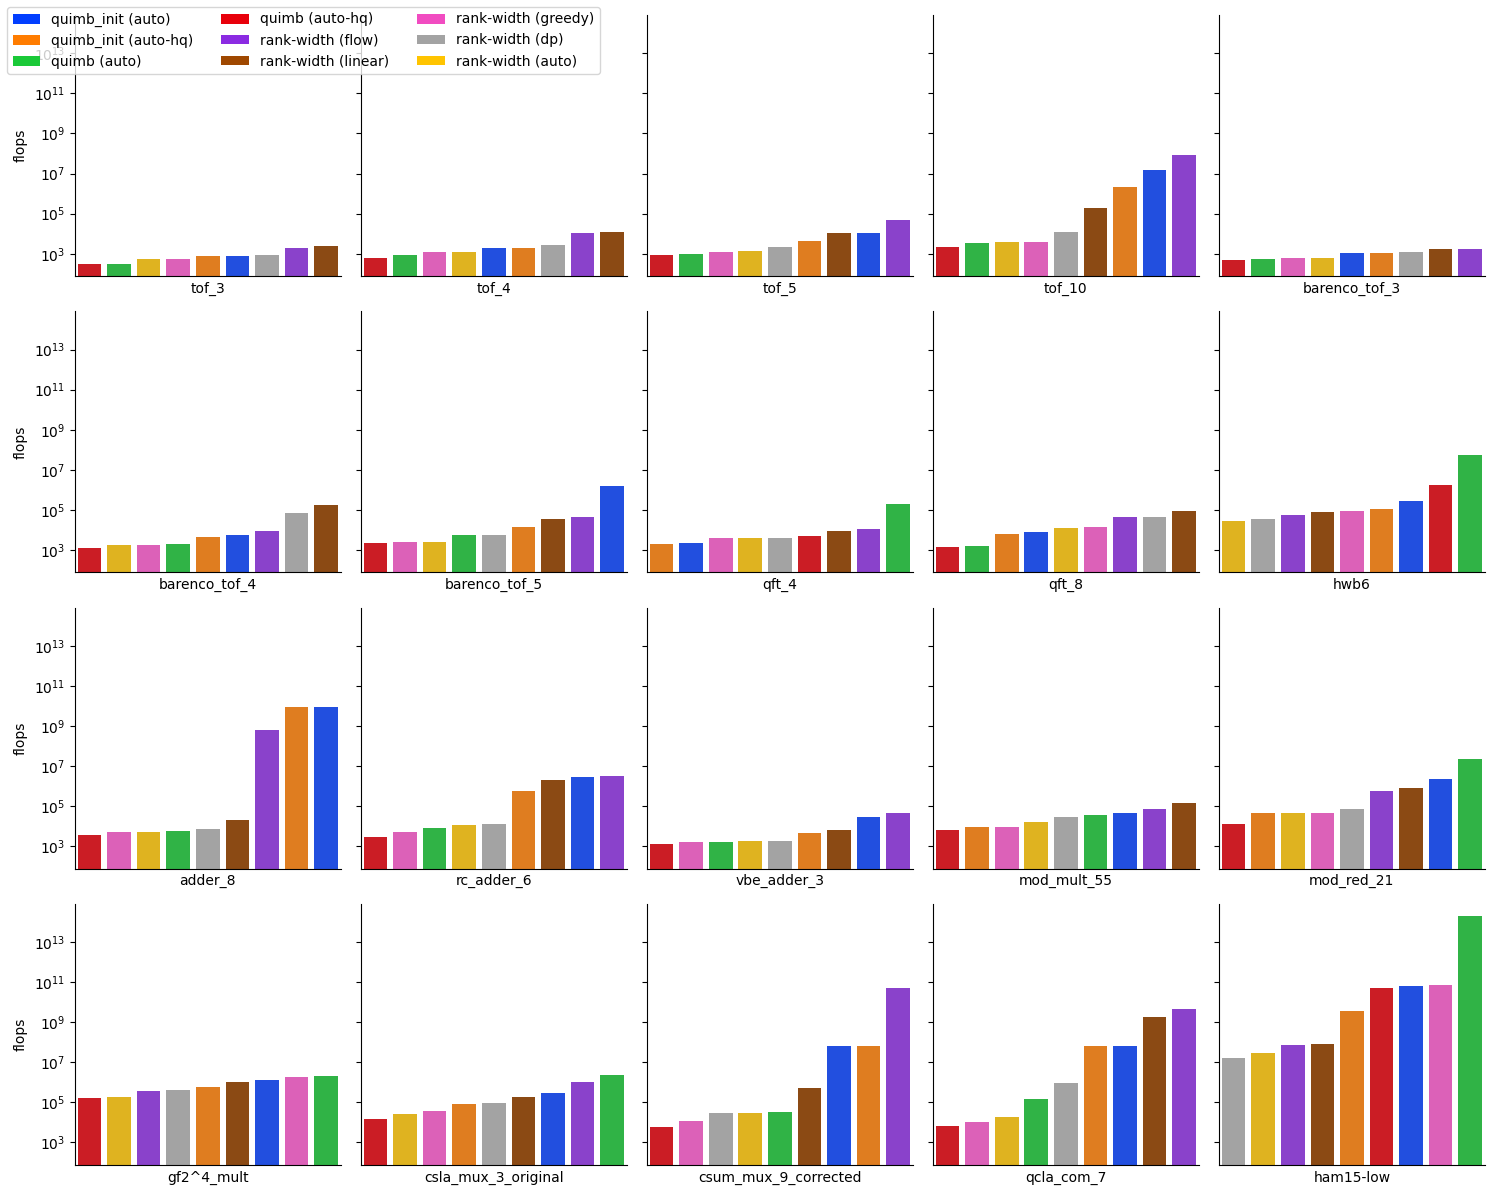
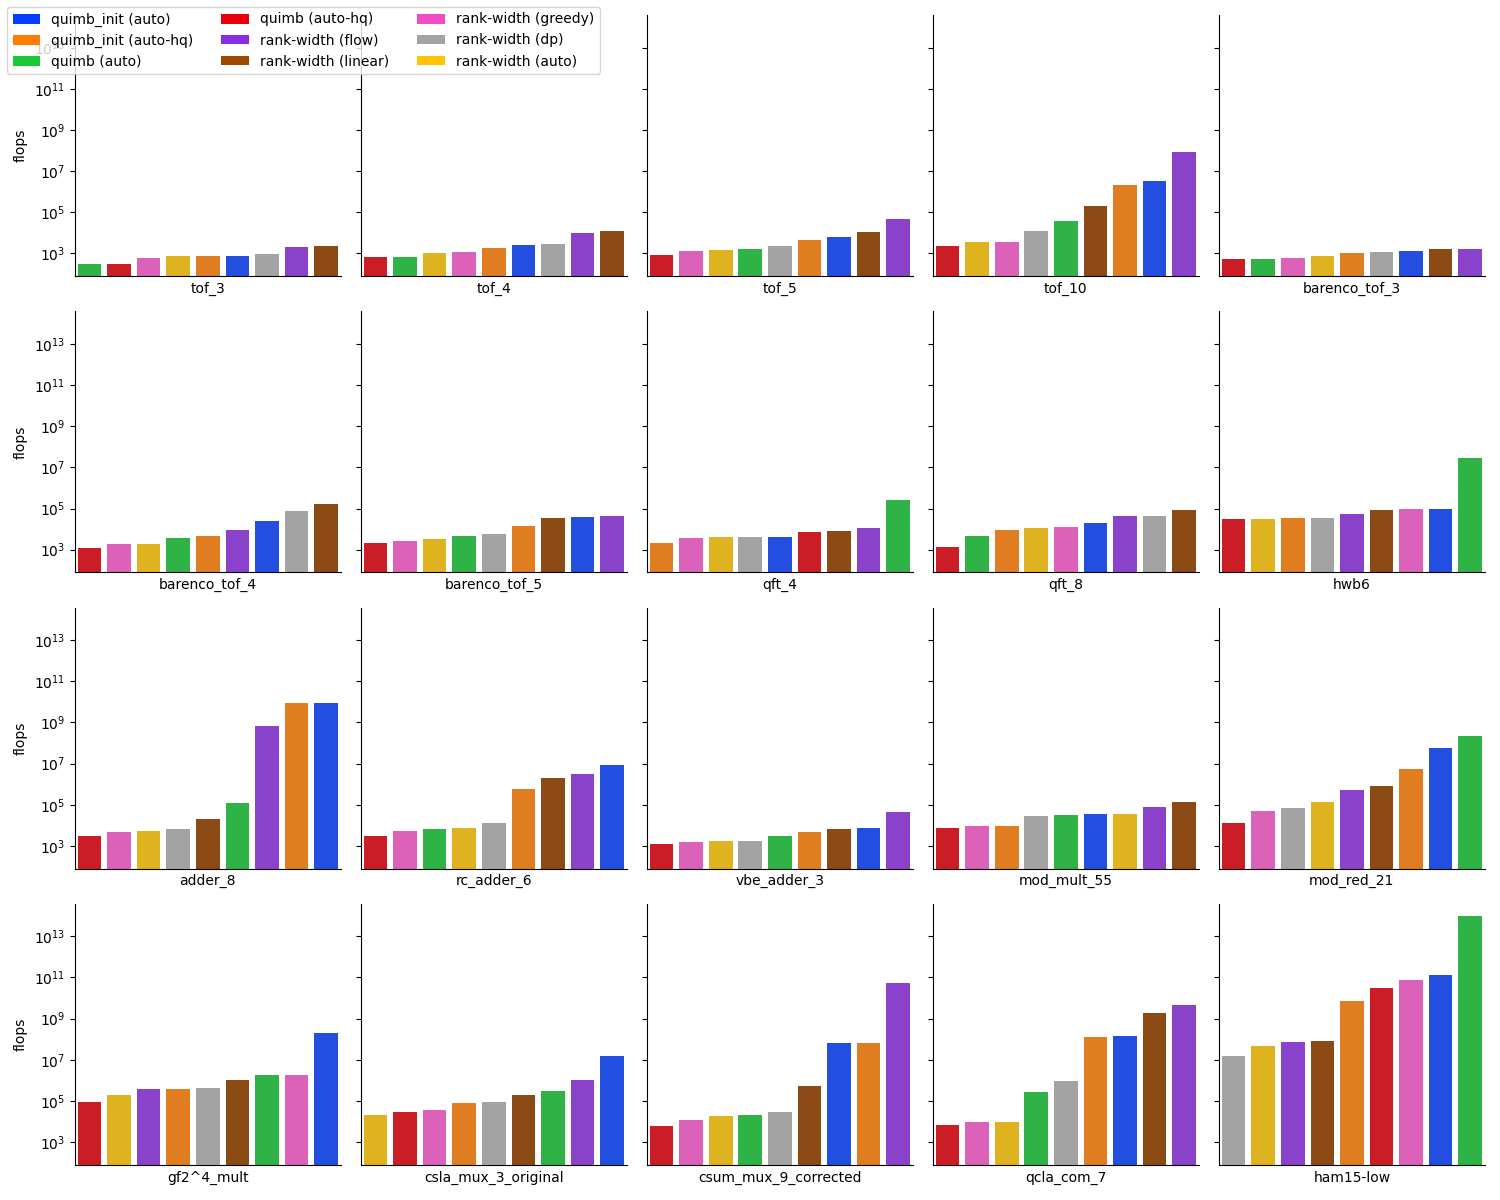
Reduced running time of auto

diff --git a/decomp_heuristics.py b/decomp_heuristics.py
@@ -231,12 +231,14 @@ def auto_decomposition(g: zx.graph.base.BaseGraph, verbose=False):
     refs = []
     decomps = []
     leaves = []
-    for i in order:
+    loc = []
+    for i in range(n):
         ref = REF(mat)
-        ref.take(i)
+        ref.take(order[i])
         refs.append(ref)
-        decomps.append(vert[i])
-        leaves.append({i})
+        decomps.append(vert[order[i]])
+        leaves.append({order[i]})
+        loc.append(i)
     refs_next = dict()
     edges = [set() for _ in range(n)]
     for i in range(n):
@@ -250,10 +252,11 @@ def auto_decomposition(g: zx.graph.base.BaseGraph, verbose=False):
             edges[j].add(i)
 
     while refs_next:
-        min_rank, i, j = min((ref.rank(), i, j) for (i, j), ref in refs_next.items())
+        min_rank, _, i, j = min((ref.rank(), abs(loc[j] - loc[i]), i, j)
+                                for (i, j), ref in refs_next.items())
         if i > j:
             i, j = j, i
-        r1, r2, r3 = refs[i].rank(), refs[j].rank(), min_rank
+        r1, r2, r3 = refs[loc[i]].rank(), refs[loc[j]].rank(), min_rank
         if r1 + r2 + r3 - max(r1, r2, r3) > max_width + 1:
             refs_next.pop((i, j))
             refs_next.pop((j, i))
@@ -261,21 +264,20 @@ def auto_decomposition(g: zx.graph.base.BaseGraph, verbose=False):
             edges[j].remove(i)
             continue
 
-        ranks = [refs[k].rank() if k != i else min_rank for k in range(n) if refs[k] and k != j]
-        new_cut_refs = deepcopy(cut_refs)
-        for k in range(i, j):
-            if new_cut_refs[k]:
-                for leaf in leaves[j]:
-                    new_cut_refs[k].take(leaf)
-        new_cut_refs[j] = None
-        cut_ranks = [new_cut_refs[k].rank() for k in range(n) if new_cut_refs[k]]
-        assert len(ranks) == len(cut_ranks)
+        new_cut_refs = []
+        r1 = cut_refs[loc[i] - 1].rank() if loc[i] != 0 else 0
         bad = False
-        for k in range(1, len(cut_ranks)):
-            r1, r2, r3 = cut_ranks[k - 1], cut_ranks[k], ranks[k]
+        for k in range(loc[i], loc[j]):
+            new_cut_ref = deepcopy(cut_refs[k])
+            for leaf in leaves[loc[j]]:
+                new_cut_ref.take(leaf)
+            r2 = new_cut_ref.rank()
+            r3 = refs[k].rank() if k != loc[i] else min_rank
             if r1 + r2 + r3 - max(r1, r2, r3) > max_width + 1:
                 bad = True
                 break
+            new_cut_refs.append(new_cut_ref)
+            r1 = r2
         if bad:
             refs_next.pop((i, j))
             refs_next.pop((j, i))
@@ -283,13 +285,18 @@ def auto_decomposition(g: zx.graph.base.BaseGraph, verbose=False):
             edges[j].remove(i)
             continue
 
-        refs[i] = refs_next[(i, j)]
-        refs[j] = None
-        cut_refs = new_cut_refs
-        decomps[i] = [decomps[i], decomps[j]]
-        decomps[j] = None
-        leaves[i] |= leaves[j]
-        leaves[j] = None
+        refs[loc[i]] = refs_next[(i, j)]
+        refs.pop(loc[j])
+        cut_refs[loc[i]:loc[j]] = new_cut_refs
+        cut_refs.pop(loc[j])
+        decomps[loc[i]] = [decomps[loc[i]], decomps[loc[j]]]
+        decomps.pop(loc[j])
+        leaves[loc[i]] |= leaves[loc[j]]
+        leaves.pop(loc[j])
+        loc[j] = None
+        for k in range(j + 1, n):
+            if loc[k] is not None:
+                loc[k] -= 1
         edges_i = edges[i].copy()
         for k in edges_i:
             refs_next.pop((i, k))
@@ -303,21 +310,21 @@ def auto_decomposition(g: zx.graph.base.BaseGraph, verbose=False):
             edges[j].remove(k)
             edges[k].remove(j)
         for k in range(n):
-            if refs[k] is None or k == i:
+            if loc[k] is None or k == i:
                 continue
-            if set(refs[i].pivot_cols) & leaves[k] or set(refs[k].pivot_cols) & leaves[i]:
-                i1, i2 = (i, k) if len(leaves[i]) > len(leaves[k]) else (k, i)
-                ref = deepcopy(refs[i1])
-                for leaf in leaves[i2]:
+            if (set(refs[loc[i]].pivot_cols) & leaves[loc[k]] or
+                    set(refs[loc[k]].pivot_cols) & leaves[loc[i]]):
+                i1, i2 = (i, k) if len(leaves[loc[i]]) > len(leaves[loc[k]]) else (k, i)
+                ref = deepcopy(refs[loc[i1]])
+                for leaf in leaves[loc[i2]]:
                     ref.take(leaf)
                 refs_next[(i1, i2)] = refs_next[(i2, i1)] = ref
                 edges[i1].add(i2)
                 edges[i2].add(i1)
 
-    decomp = None
-    for i in range(n):
-        if decomps[i] is not None:
-            decomp = [decomp, decomps[i]] if decomp is not None else decomps[i]
+    decomp = decomps[0]
+    for cur_decomp in decomps[1:]:
+        decomp = [decomp, cur_decomp]
     if verbose:
         width = rank_width(decomp, g)
         score = rank_score_flops(decomp, g)

diff --git a/demo.py b/demo.py
@@ -72,42 +72,42 @@ def greedy_inc_decomposition(g: zx.graph.base.BaseGraph):
     return decomp
 
 
-# circ = zx.Circuit.load('circuits/special/csum_mux_9_corrected')
-circ = zx.generate.CNOT_HAD_PHASE_circuit(10, 1000)
+circ = zx.Circuit.load('circuits/special/ham15-low.qc')
+# circ = zx.generate.CNOT_HAD_PHASE_circuit(10, 2000)
 state, effect = 'T' * circ.qubits, 'T' * circ.qubits
-print(f'Our flops (flow): {rw_simulate_flops(circ, state, effect, opt="flow")}')
-print(f'Our flops (linear): {rw_simulate_flops(circ, state, effect, opt="linear")}')
-print(f'Our flops (greedy): {rw_simulate_flops(circ, state, effect, opt="greedy")}')
-print(f'Our flops (dp): {rw_simulate_flops(circ, state, effect, opt="dp")}')
-print(f'Our flops (auto): {rw_simulate_flops(circ, state, effect, opt="auto")}')
+# print(f'Our flops (flow): {rw_simulate_flops(circ, state, effect, opt="flow")}')
+# print(f'Our flops (linear): {rw_simulate_flops(circ, state, effect, opt="linear")}')
+# print(f'Our flops (greedy): {rw_simulate_flops(circ, state, effect, opt="greedy")}')
+# print(f'Our flops (dp): {rw_simulate_flops(circ, state, effect, opt="dp")}')
+# print(f'Our flops (auto): {rw_simulate_flops(circ, state, effect, opt="auto")}')
 # print(f'Quimb flops (auto): {quimb_flops(circ, state, effect, optimize="auto", initial=True)}')
 # print(f'Quimb flops (auto-hq): {quimb_flops(circ, state, effect, optimize="auto-hq", initial=True)}')
 
-# g = circuit2graph(circ, state, effect).copy(backend='quizx-vec')
-# g.apply_state('0' * circ.qubits)
-# g.apply_effect('0' * circ.qubits)
-# quizx.full_simp(g)
-# print('n_vertices =', g.num_vertices())
-# print('n_qubits =', circ.qubits)
-#
-# t0 = time.time()
-# decomp0 = linear_greedy_decomposition(g)
-# t1 = time.time()
-# print(f'linear-greedy decomposition computed in {t1 - t0:.3f} sec')
-# print(f'linear-greedy decomposition has width {rank_width(decomp0, g)} and score {rank_score_flops(decomp0, g)}')
-#
+g = circuit2graph(circ, state, effect).copy(backend='quizx-vec')
+g.apply_state('0' * circ.qubits)
+g.apply_effect('0' * circ.qubits)
+quizx.full_simp(g)
+print('n_vertices =', g.num_vertices())
+print('n_qubits =', circ.qubits)
+
+t0 = time.time()
+decomp0 = auto_decomposition(g)
+t1 = time.time()
+print(f'auto decomposition computed in {t1 - t0:.3f} sec')
+print(f'auto decomposition has width {rank_width(decomp0, g)} and score {rank_score_flops(decomp0, g)}')
+
 # t0 = time.time()
 # decomp1 = linear_decomposition(g)
 # t1 = time.time()
 # print(f'linear decomposition computed in {t1 - t0:.3f} sec')
 # print(f'linear decomposition has width {rank_width(decomp1, g)} and score {rank_score_flops(decomp1, g)}')
 #
-# t0 = time.time()
-# decomp2 = greedy_decomposition(g)
-# t1 = time.time()
-# print(f'greedy decomposition computed in {t1 - t0:.3f} sec')
-# print(f'greedy decomposition has width {rank_width(decomp2, g)} and score {rank_score_flops(decomp2, g)}')
-#
+t0 = time.time()
+decomp2 = greedy_decomposition(g)
+t1 = time.time()
+print(f'greedy decomposition computed in {t1 - t0:.3f} sec')
+print(f'greedy decomposition has width {rank_width(decomp2, g)} and score {rank_score_flops(decomp2, g)}')
+
 # t0 = time.time()
 # decomp3 = linear_dp_decomposition(g)
 # t1 = time.time()

diff --git a/bench_random_flops.py b/bench_random_flops.py
@@ -9,7 +9,6 @@ if __name__ == '__main__':
     n_qubits = 10
     ns_gates = list(range(100, 801, 25))
     repeat = 3
-
     data = {
         'n_gates': [],
         'flops': [],
@@ -67,6 +66,8 @@ if __name__ == '__main__':
             data['flops'].append(flops_rw_auto)
             data['strategy'].append('rank-width (auto)')
 
+    plt.figure(figsize=(14, 8))
     sns.pointplot(data, x='n_gates', y='flops', hue='strategy', palette='bright')
     plt.yscale('log')
-    plt.show()
+    plt.tight_layout()
+    plt.savefig(f'results/bench-random/CNOT_H_T_Q{n_qubits}_flops.png')

diff --git a/bench_random_time.py b/bench_random_time.py
@@ -11,7 +11,6 @@ if __name__ == '__main__':
     n_qubits = 10
     ns_gates = list(range(100, 501, 25))
     repeat = 3
-
     data = {
         'n_gates': [],
         'time': [],
@@ -87,6 +86,8 @@ if __name__ == '__main__':
             data['time'].append(t1 - t0)
             data['strategy'].append('rank-width (auto)')
 
+    plt.figure(figsize=(12, 8))
     sns.pointplot(data, x='n_gates', y='time', hue='strategy', palette='bright')
     plt.yscale('log')
-    plt.show()
+    plt.tight_layout()
+    plt.savefig(f'results/bench-random/CNOT_H_T_Q{n_qubits}_time.png')
